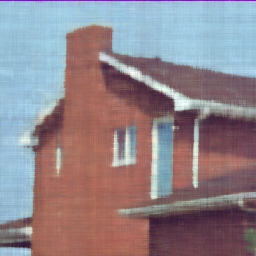
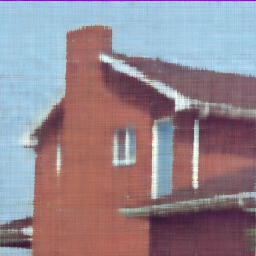
Finished

diff --git a/main.py b/main.py
@@ -1,6 +1,5 @@
 import torch
 from torch.utils.data import Dataset, DataLoader
-from torchvision import transforms
 from PIL import Image
 import torch.nn as nn
 import torch.optim as optim
@@ -35,13 +34,13 @@ class MLP(nn.Module):
 
 # Frequency Encoding
 class FrequencyEncoding(nn.Module):
-    def __init__(self, input_dim, n_frequencies):
+    def __init__(self, input_dim, n_frequencies, freq_factor=1):
         super(FrequencyEncoding, self).__init__()
         self.input_dim = input_dim
         self.n_frequencies = n_frequencies
         self.output_dim = input_dim * n_frequencies * 2
 
-        self.frequencies = torch.tensor([pow(2,x) * np.pi for x in range(n_frequencies)], device=device).repeat(input_dim)
+        self.frequencies = torch.tensor([pow(2,x) * np.pi * freq_factor for x in range(n_frequencies)], device=device).repeat(input_dim)
     
     def forward(self, x):
         expanded_x = x.unsqueeze(2).repeat(1, 1, self.n_frequencies).view(x.size(0), -1)
@@ -52,17 +51,16 @@ class FrequencyEncoding(nn.Module):
     
 # MLP with Encoding
 class NetworkWithEncoding(nn.Module):
-    def __init__(self, input_dim, hidden_dim, output_dim, n_hidden_layers, n_frequencies):
+    def __init__(self, input_dim, hidden_dim, output_dim, n_hidden_layers, n_frequencies, freq_factor=1):
         super(NetworkWithEncoding, self).__init__()
-        self.encoding = FrequencyEncoding(input_dim=input_dim, n_frequencies=n_frequencies)
+        self.encoding = FrequencyEncoding(input_dim=input_dim, n_frequencies=n_frequencies, freq_factor=freq_factor)
         self.mlp = MLP(input_dim=self.encoding.output_dim, hidden_dim=hidden_dim, output_dim=output_dim, n_hidden_layers=n_hidden_layers)
 
     def forward(self, x):
         e = self.encoding(x)
         y = self.mlp(e)
         return y
-
-
+    
 class ImagePixelDataset(Dataset):
     def __init__(self, image_path):
         self.image = Image.open(image_path)
@@ -72,41 +70,38 @@ class ImagePixelDataset(Dataset):
         return self.width * self.height
 
     def __getitem__(self, idx):
-        y, x = divmod(idx, self.width)  # Calculate pixel coordinates
-        r, g, b = self.image.getpixel((x, y))  # Get RGB values of the pixel
-        # Normalize x, y to range [0, 1]
+        y, x = divmod(idx, self.width)
+        r, g, b = self.image.getpixel((x, y))
+
         x_norm = x / (self.width - 1)
         y_norm = y / (self.height - 1)
-        # Normalize r, g, b to range [0, 1]
+
         r_norm = r / 255.0
         g_norm = g / 255.0
         b_norm = b / 255.0
         return torch.tensor([x_norm, y_norm]), torch.tensor([r_norm, g_norm, b_norm])
 
 def saveMLPImage(model, width, height, fname):
-    # Create a grid of pixel positions
+    # Create grid of pixel positions
     x_grid, y_grid = np.meshgrid(np.linspace(0, 1, width), np.linspace(0, 1, height))
     positions = np.stack([x_grid.ravel(), y_grid.ravel()], axis=1)
     positions_tensor = torch.tensor(positions, dtype=torch.float32)
-
-    # Move positions tensor to the appropriate device (CPU or GPU)
     positions_tensor = positions_tensor.to(device)
 
-    # Pass the positions tensor through the model to get predicted RGB values
+    # Predict colors using model
     model.eval()
     with torch.no_grad():
         predicted_rgb = model(positions_tensor)
 
-    # Reshape the predicted RGB values into an image format
+    # Reshape to image format
     predicted_rgb_image = predicted_rgb.cpu().numpy().reshape((height, width, 3))
     predicted_rgb_image = np.clip(predicted_rgb_image, 0, 1)
 
-    # Save the generated image to a file
     plt.imsave(fname, predicted_rgb_image)
 
 
 # Initialize the model
-model = NetworkWithEncoding(input_dim=2, hidden_dim=256, output_dim=3, n_hidden_layers=4, n_frequencies=32)
+model = NetworkWithEncoding(input_dim=2, hidden_dim=256, output_dim=3, n_hidden_layers=4, n_frequencies=32, freq_factor=32)
 model.to(device)
 
 # Load data

diff --git a/Readme.md b/Readme.md
@@ -1,0 +1,1 @@
+Image source: https://sipi.usc.edu/database/database.php?volume=misc
